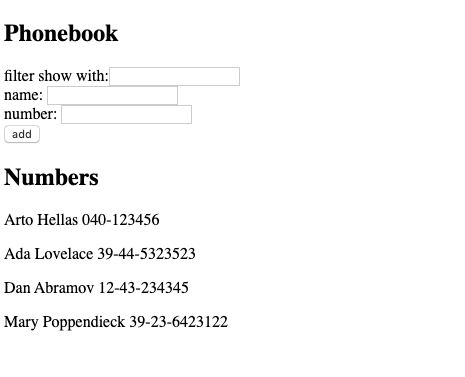
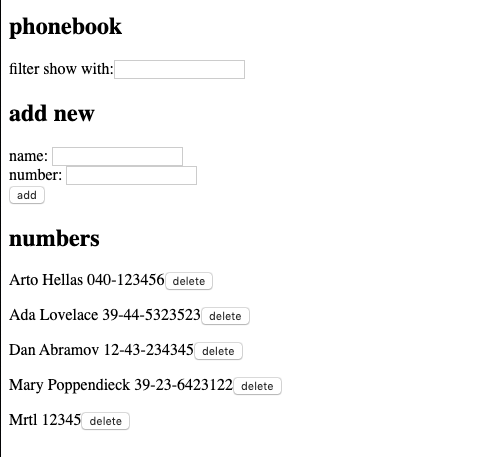
can delete entry, step9

diff --git a/part2/phonebook/src/components/Persons.js b/part2/phonebook/src/components/Persons.js
@@ -1,11 +1,29 @@
 import React from "react";
+import personsService from "../services/persons";
 
-const Persons = ({ persons }) => {
+const Persons = ({ persons, setPersons }) => {
+  const handlePersonDelete = personToDelete => {
+    const { id, name } = personToDelete;
+    const answer = window.confirm(`Delete ${name}?`);
+    if (answer) {
+      personsService.deletePerson(id).then(data => {
+        setPersons(persons.filter(person => person.id !== id));
+      });
+    }
+  };
+
   return (
     <>
       {persons.map(person => (
         <p key={person.name}>
           {person.name} {person.number}
+          <button
+            onClick={() => {
+              handlePersonDelete(person);
+            }}
+          >
+            delete
+          </button>
         </p>
       ))}
     </>

diff --git a/part2/phonebook/src/App.js b/part2/phonebook/src/App.js
@@ -59,9 +59,10 @@ const App = () => {
 
   return (
     <div>
-      <h2>Phonebook</h2>
+      <h2>phonebook</h2>
       <Filter value={filterName} onChange={handleFilterNameChange} />
 
+      <h2>add new</h2>
       <PersonForm
         onSubmit={handleNewPersonSubmit}
         name={newName}
@@ -70,8 +71,8 @@ const App = () => {
         onNumberChange={handleNewNumberChange}
       />
 
-      <h2>Numbers</h2>
-      <Persons persons={personsToShow} />
+      <h2>numbers</h2>
+      <Persons persons={personsToShow} setPersons={setPersons} />
     </div>
   );
 };

diff --git a/part2/phonebook/src/services/persons.js b/part2/phonebook/src/services/persons.js
@@ -12,4 +12,9 @@ const create = newPerson => {
   return req.then(res => res.data);
 };
 
-export default { getAll, create };
+const deletePerson = id => {
+  const req = axios.delete(`${baseUrl}/${id}`);
+  return req.then(res => res.data);
+};
+
+export default { getAll, create, deletePerson };
